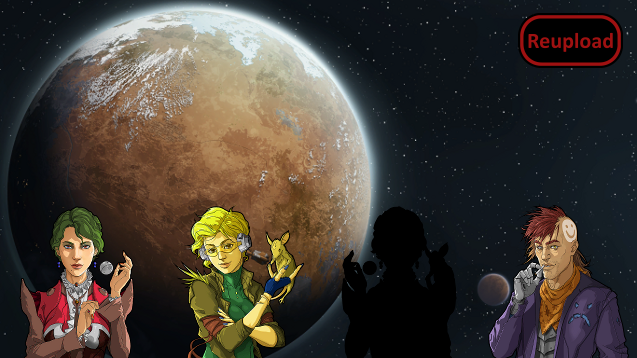
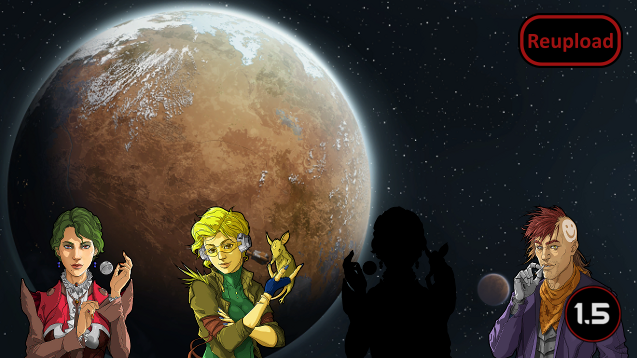
Mod updated for 1.5 and passed autotests

Changed region(s): [[0.865, 0.7989, 0.9843, 0.9525]]

diff --git a/Source/StorytellerEnhanced/ModExtension/ModExt_Difficulty.cs b/Source/StorytellerEnhanced/ModExtension/ModExt_Difficulty.cs
@@ -4,16 +4,16 @@ namespace StorytellerEnhanced;
 
 public class ModExt_Difficulty : DefModExtension
 {
-    public float butcherProductFactor = 1f;
-    public float damageFactorOnOther = 1f;
+    public readonly float butcherProductFactor = 1f;
+    public readonly float damageFactorOnOther = 1f;
 
-    public float damageFactorOnPlayer = 1f;
+    public readonly float damageFactorOnPlayer = 1f;
 
-    public float moodImpactFactorNegative = 1f;
-    public float moodImpactFactorPositive = 1f;
-    public float needJoyFallFactor = 1f;
+    public readonly float moodImpactFactorNegative = 1f;
+    public readonly float moodImpactFactorPositive = 1f;
+    public readonly float needJoyFallFactor = 1f;
 
-    public float needRestFallFactor = 1f;
+    public readonly float needRestFallFactor = 1f;
 
-    public float workSpeedGlobalFactor = 1f;
+    public readonly float workSpeedGlobalFactor = 1f;
 }

diff --git a/README.md b/README.md
@@ -56,11 +56,13 @@ Nora doesn't give much about telling a story, she won't make any incidents and j
 
 -  See if the the error persists if you just have this mod and its requirements active.
 -  If not, try adding your other mods until it happens again.
--  Post your error-log using https://steamcommunity.com/workshop/filedetails/?id=818773962]HugsLib and command Ctrl+F12
+-  Post your error-log using https://steamcommunity.com/workshop/filedetails/?id=818773962]HugsLib or the standalone https://steamcommunity.com/sharedfiles/filedetails/?id=2873415404]Uploader and command Ctrl+F12
 -  For best support, please use the Discord-channel for error-reporting.
 -  Do not report errors by making a discussion-thread, I get no notification of that.
 -  If you have the solution for a problem, please post it to the GitHub repository.
+-  Use https://github.com/RimSort/RimSort/releases/latest]RimSort to sort your mods
 
 
 
+https://steamcommunity.com/sharedfiles/filedetails/changelog/2604427827]![Image](https://img.shields.io/github/v/release/emipa606/StorytellerEnhanced?label=latest%20version&style=plastic&color=9f1111&labelColor=black)
 
